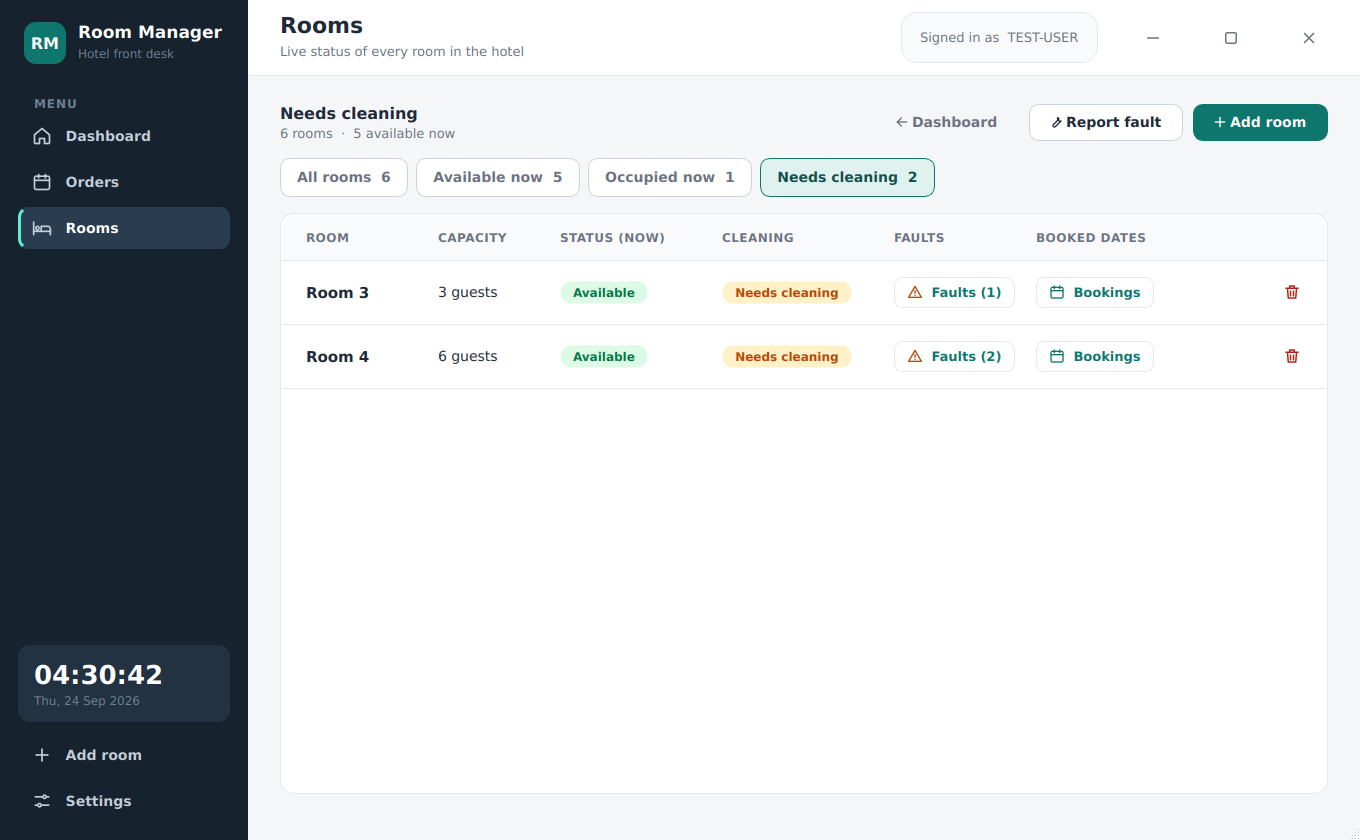
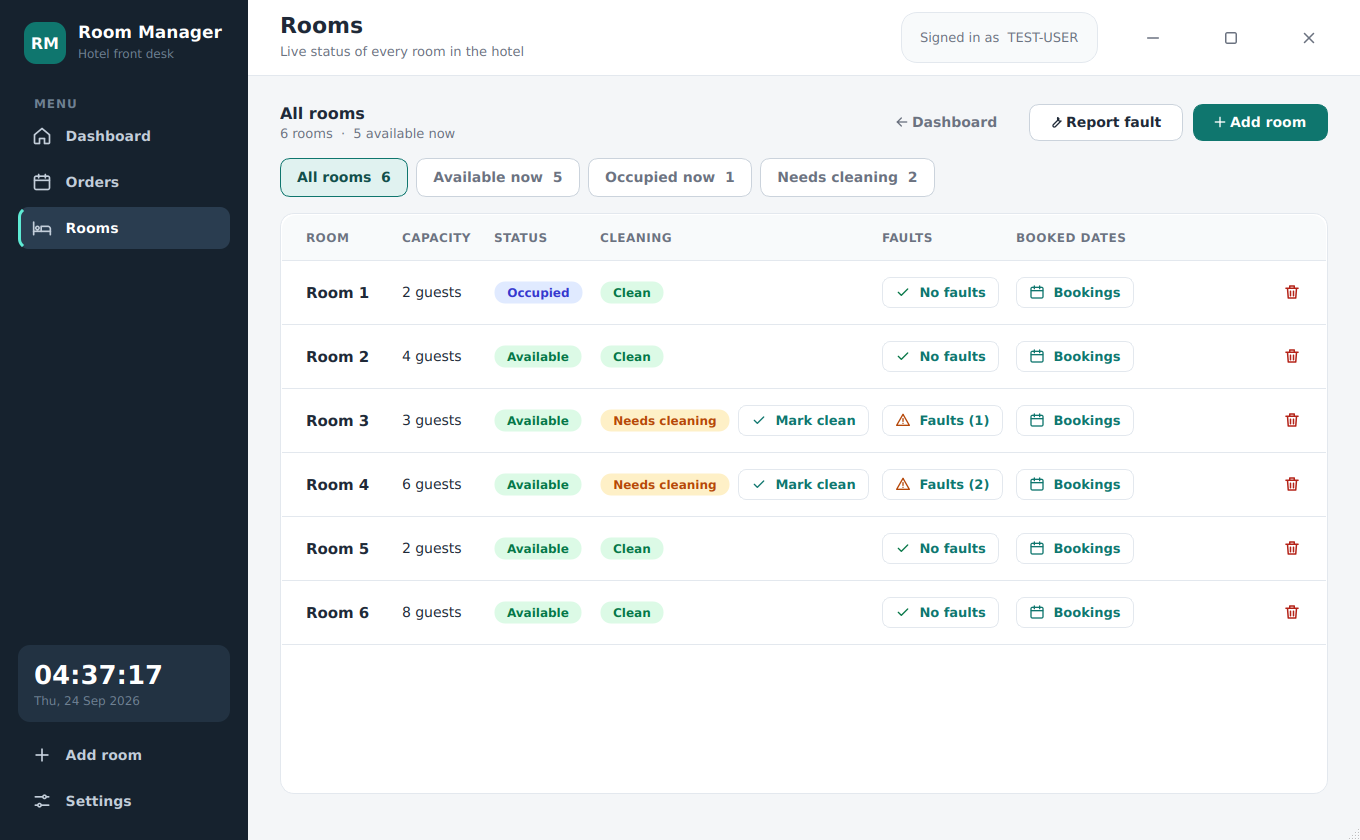
Add "Mark clean" for rooms and enforce the check-in date range
- Rooms page: rooms that need cleaning get a "Mark clean" button next to
  the status; the row, filter counts and dashboard update right away
- Checking a guest out marks their room as "Needs cleaning"
- Check-in is only allowed from the arrival day until the day before
  leaving; otherwise the user gets a message with the allowed dates.
  The old check compared dd/mm/yyyy strings and needed both halves of
  "start > today >= end" to be true, so it almost never blocked
- check_in_db returns an error message instead of None on a DB error
- Rooms table columns re-sized to fit the new button at the minimum
  window width (now 1280px)

Claude-Session: https://claude.ai/code/session_01W5dmnJXy8DdL9ci62YXSUu

diff --git a/src/1.1 - sql-UI/models/app_function.py b/src/1.1 - sql-UI/models/app_function.py
@@ -1,6 +1,6 @@
 import random
 
-from datetime import datetime, date
+from datetime import datetime, date, timedelta
 
 from .Logs import *
 from .global_ver import *
@@ -207,6 +207,9 @@ def check_out_db(order_id=-1):
                 return False, f"Can't be checked-out ,The customer is leaving not between arrival and leaving dates of the orders: {start_date} to {end_date}"
             check_query = DB_CURSER.mogrify("""update orders set check_out = TRUE where id = %s""" % order_id)
             DB_CURSER.execute(check_query)
+            # the guest left -> the room needs cleaning
+            DB_CURSER.execute("""UPDATE rooms SET room_is_clean = FALSE
+                WHERE room_number = (SELECT room_number FROM orders WHERE id = %s)""", (order_id,))
             create_log_order_room(ORDERS_LOGGER_LEVELS["order-check-out"]["value"],
                                   ORDERS_LOGGER_LEVELS["order-check-out"]["msg"] % order_id)
             DB_CON.commit()
@@ -239,10 +242,15 @@ def check_in_db(order_id=-1):
     try:
         in_status, out_status = get_check_in_and_out_status(order_id)
         if not in_status and not out_status:
-            today = date.today().strftime("%d/%m/%Y")
+            today = date.today()
             start_date, end_date = get_start_and_end_dates(order_id)
-            if start_date > today >= end_date:
-                return False, f"Can't be checked-in ,The customer is arrival not between arrival and leaving dates of the orders: {start_date} to {end_date}"
+            arrival = datetime.strptime(start_date, "%d/%m/%Y").date()
+            leaving = datetime.strptime(end_date, "%d/%m/%Y").date()
+            if not (arrival <= today < leaving):
+                # check-in is possible from the arrival day until the day before leaving
+                last_day = (leaving - timedelta(days=1)).strftime("%d/%m/%Y")
+                return False, (f"Check-in is only possible from {start_date} until {last_day} (the day before leaving). "
+                               f"Today is {today.strftime('%d/%m/%Y')}.")
             check_query = DB_CURSER.mogrify("""update orders set check_in = TRUE where id = %s""" % order_id)
             DB_CURSER.execute(check_query)
             create_log_order_room(ORDERS_LOGGER_LEVELS["order-check-in"]["value"],
@@ -255,6 +263,7 @@ def check_in_db(order_id=-1):
             return False, "The customer is already check out!!"
     except Exception as e:
         print("check-in in db: ", e)
+        return False, f"Can't check-in: {e}"
 
 def cancel_check_in_db(order_id=-1):
     in_status, out_status = get_check_in_and_out_status(order_id)
@@ -339,6 +348,12 @@ def create_room_in_db(room_capacity: int):
     DB_CURSER.execute("INSERT INTO rooms (room_capacity) VALUES(%s)" % room_capacity)
     DB_CON.commit()
     return True
+
+def set_room_clean_db(room_number, clean=True):
+    """Mark the room as clean (or as needs cleaning when clean=False)"""
+    DB_CURSER.execute("UPDATE rooms SET room_is_clean = %s WHERE room_number = %s", (clean, room_number))
+    DB_CON.commit()
+    return OK_CODE, f"Room {room_number} is {'clean' if clean else 'needs cleaning'}"
 
 # =================================================================================================================================
 # --------------------------------------------------------------------------------------------------------------------------------------------

diff --git a/src/1.1 - sql-UI/UI/UI_CODE_FILES/rooms_view_widget.py b/src/1.1 - sql-UI/UI/UI_CODE_FILES/rooms_view_widget.py
@@ -1,6 +1,6 @@
 from PyQt5 import QtWidgets
 from PyQt5.QtCore import Qt, QSize
-from PyQt5.QtWidgets import QWidget, QFrame, QPushButton
+from PyQt5.QtWidgets import QWidget, QFrame, QPushButton, QHBoxLayout
 from PyQt5.uic import loadUi
 
 from models import *
@@ -10,11 +10,11 @@ from .room_dates_catch_dialog import Dates_Catch_Dialog
 from .room_faults_dialog import Faults_Dialog
 from .new_room_dialog import New_Room_Dialog
 from .new_room_fault_dialog import New_Fault_Dialog
-from .components import cell, pill_holder, table_header, table_row_layout, fixed_cell
+from .components import cell, pill, pill_holder, table_header, table_row_layout, fixed_cell
 from UI import theme
 
-COLUMNS_TITLES = ["ROOM", "CAPACITY", "STATUS (NOW)", "CLEANING", "FAULTS", "BOOKED DATES"]
-COLUMNS_WIDTH = [120, 110, 150, 160, 130, 150]  # room, capacity, status, cleaning, faults, dates
+COLUMNS_TITLES = ["ROOM", "CAPACITY", "STATUS", "CLEANING", "FAULTS", "BOOKED DATES"]
+COLUMNS_WIDTH = [86, 82, 96, 272, 124, 122]  # room, capacity, status, cleaning, faults, dates
 
 # the filters of the rooms table: key -> (button text, function that says if a room is in the filter)
 # room = (room_number, room_capacity, occupied_now, room_is_clean, faults_count)
@@ -147,7 +147,7 @@ class Room_View_Widget(QWidget):
         if room[3]:
             layout.addWidget(pill_holder("Clean", "success", COLUMNS_WIDTH[3]))
         else:
-            layout.addWidget(pill_holder("Needs cleaning", "warning", COLUMNS_WIDTH[3]))
+            layout.addWidget(self.create_needs_cleaning_cell(room[0]))
 
         faults_count = room[4]
         faults_room = QPushButton(f" Faults ({faults_count})" if faults_count else " No faults", room_frame)
@@ -184,7 +184,32 @@ class Room_View_Widget(QWidget):
 
         return room_frame
 
+    def create_needs_cleaning_cell(self, room_number):
+        """"Needs cleaning" pill + a button to mark the room as clean"""
+        cleaning_cell = QFrame()
+        cleaning_cell.setFixedWidth(COLUMNS_WIDTH[3])
+        cleaning_layout = QHBoxLayout(cleaning_cell)
+        cleaning_layout.setContentsMargins(0, 0, 0, 0)
+        cleaning_layout.setSpacing(8)
+        cleaning_layout.addWidget(pill("Needs cleaning", "warning"), 0, Qt.AlignVCenter)
+
+        mark_clean_btn = QPushButton(" Mark clean", cleaning_cell)
+        mark_clean_btn.setObjectName("mark_clean_btn")
+        mark_clean_btn.setProperty("variant", "link")
+        mark_clean_btn.setCursor(Qt.PointingHandCursor)
+        mark_clean_btn.setToolTip(f"Mark room {room_number} as clean")
+        mark_clean_btn.setIcon(theme.icon("check", theme.COLORS["accent"], 16))
+        mark_clean_btn.setIconSize(QSize(16, 16))
+        mark_clean_btn.clicked.connect(lambda: self.mark_room_clean(room_number))
+        cleaning_layout.addWidget(mark_clean_btn, 0, Qt.AlignVCenter)
+        cleaning_layout.addStretch()
+        return cleaning_cell
+
     # -------------------------clicked event functions-------------------------
+
+    def mark_room_clean(self, room_number):
+        set_room_clean_db(room_number, True)
+        self.refresh_rooms_status()  # update the row + the filters numbers
 
     def delete_room(self, room_number):
         delete_status = MSG_Dialog(f"Delete room number {room_number}", "Yes",

diff --git a/src/1.1 - sql-UI/UI/UI_CODE_FILES/components.py b/src/1.1 - sql-UI/UI/UI_CODE_FILES/components.py
@@ -27,7 +27,7 @@ def table_row_layout(frame):
     """same margins / spacing for a table header and for its rows so the columns line up"""
     layout = QHBoxLayout(frame)
     layout.setContentsMargins(24, 0, 16, 0)
-    layout.setSpacing(12)
+    layout.setSpacing(10)
     return layout
 
 
